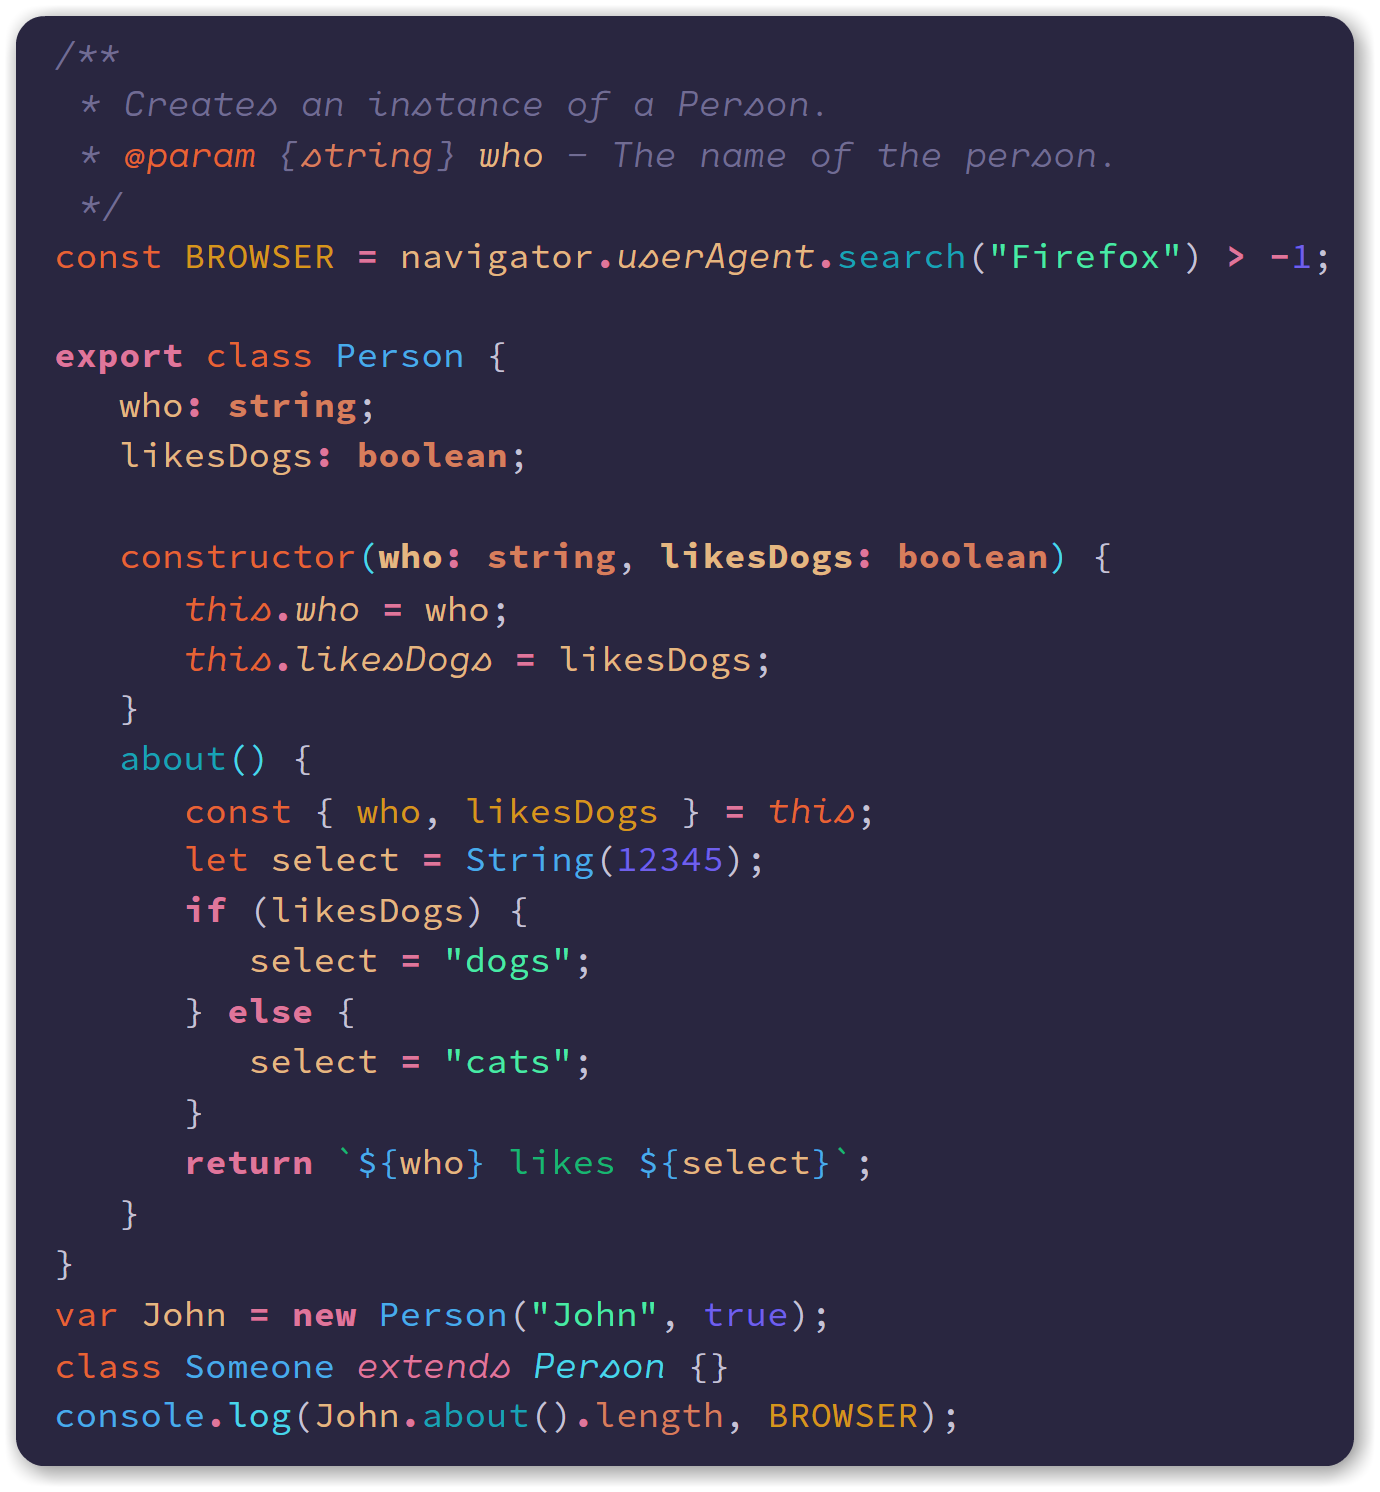
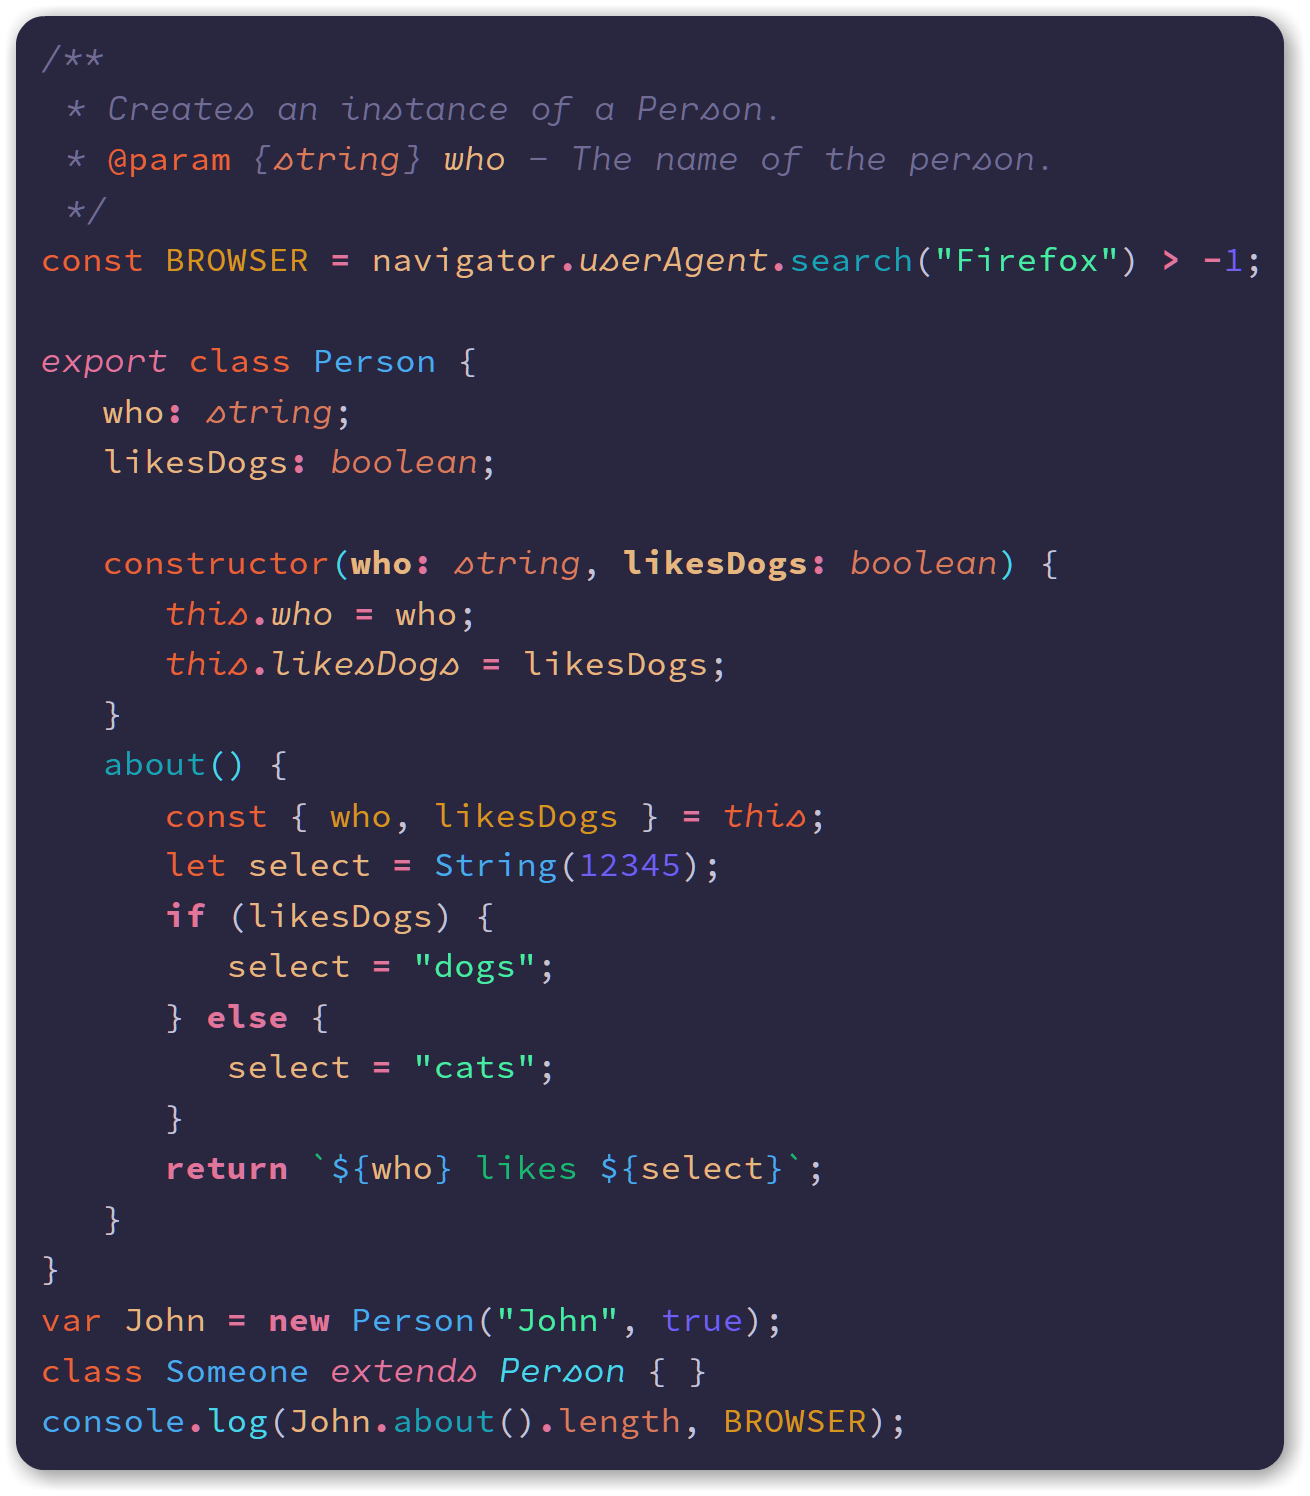
9.8.0

diff --git a/README.md b/README.md
@@ -39,19 +39,19 @@ Noctis comes in nine versions. Seven are dark and two are light.
 
 ## Noctis
 
-![Noctis Screenshot](https://github.com/liviuschera/noctis/raw/master/images/noctis.png)
+![Noctis Screenshot](images/noctis.png)
 
 ## Noctis Azureus
 
-![Noctis Azureus Screenshot](https://github.com/liviuschera/noctis/raw/master/images/noctisAzureus.png)
+![Noctis Azureus Screenshot](images/noctisAzureus.png)
 
 ## Noctis Minimus
 
-![Noctis Minimus Screenshot](https://github.com/liviuschera/noctis/raw/master/images/noctisMinimus.png)
+![Noctis Minimus Screenshot](images/noctisMinimus.png)
 
 ## Noctis Uva
 
-![Noctis Uva Screenshot](https://github.com/liviuschera/noctis/raw/master/images/NoctisUva.png)
+![Noctis Uva Screenshot](images/NoctisUva.png)
 
 ## Noctis Viola
 

diff --git a/CHANGELOG.md b/CHANGELOG.md
@@ -1,5 +1,10 @@
 # Change Log
 
+## **9.8.0**
+
+- **TypeScript** &rarr; datatype annotations, import and export statements are now italicized [#25](https://github.com/liviuschera/noctis/issues/25)
+- updated screenshots in README
+
 ## **9.7.0**
 
 - **C/C++** &rarr; more tweaks
